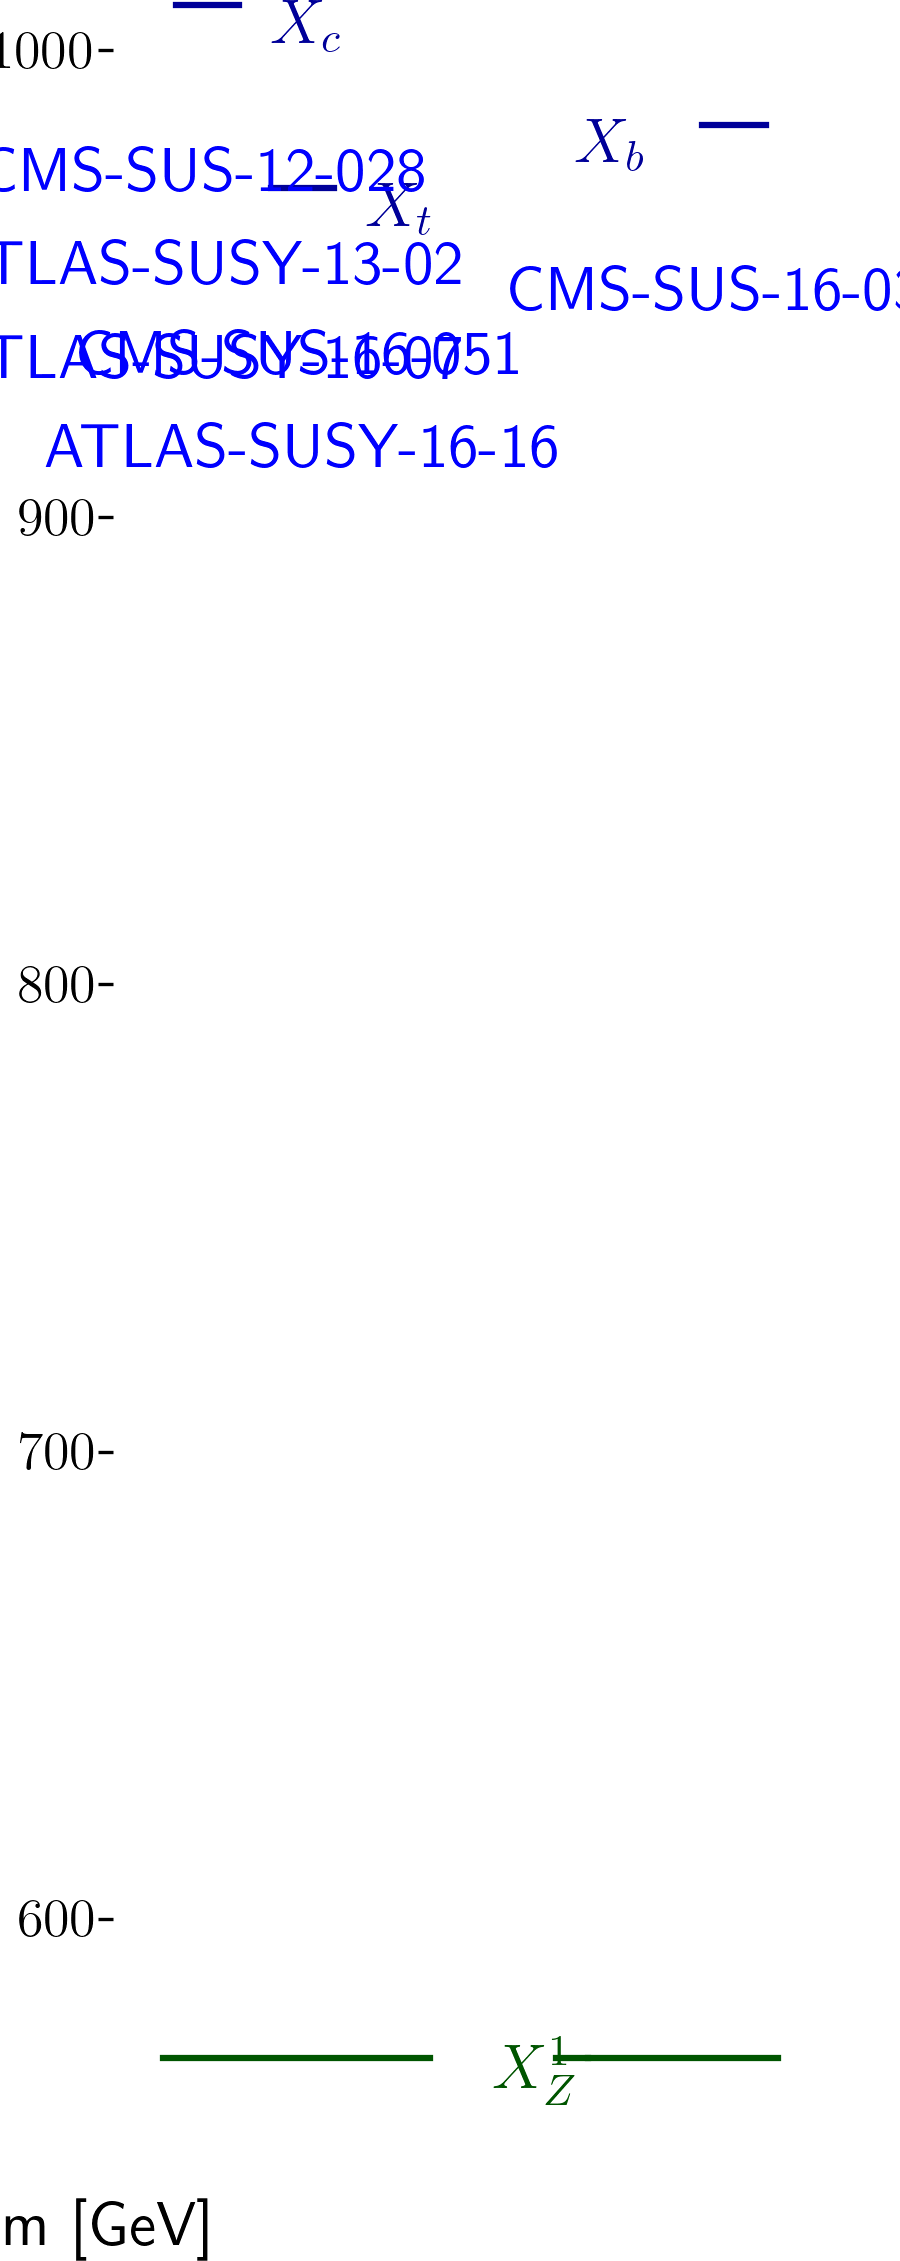
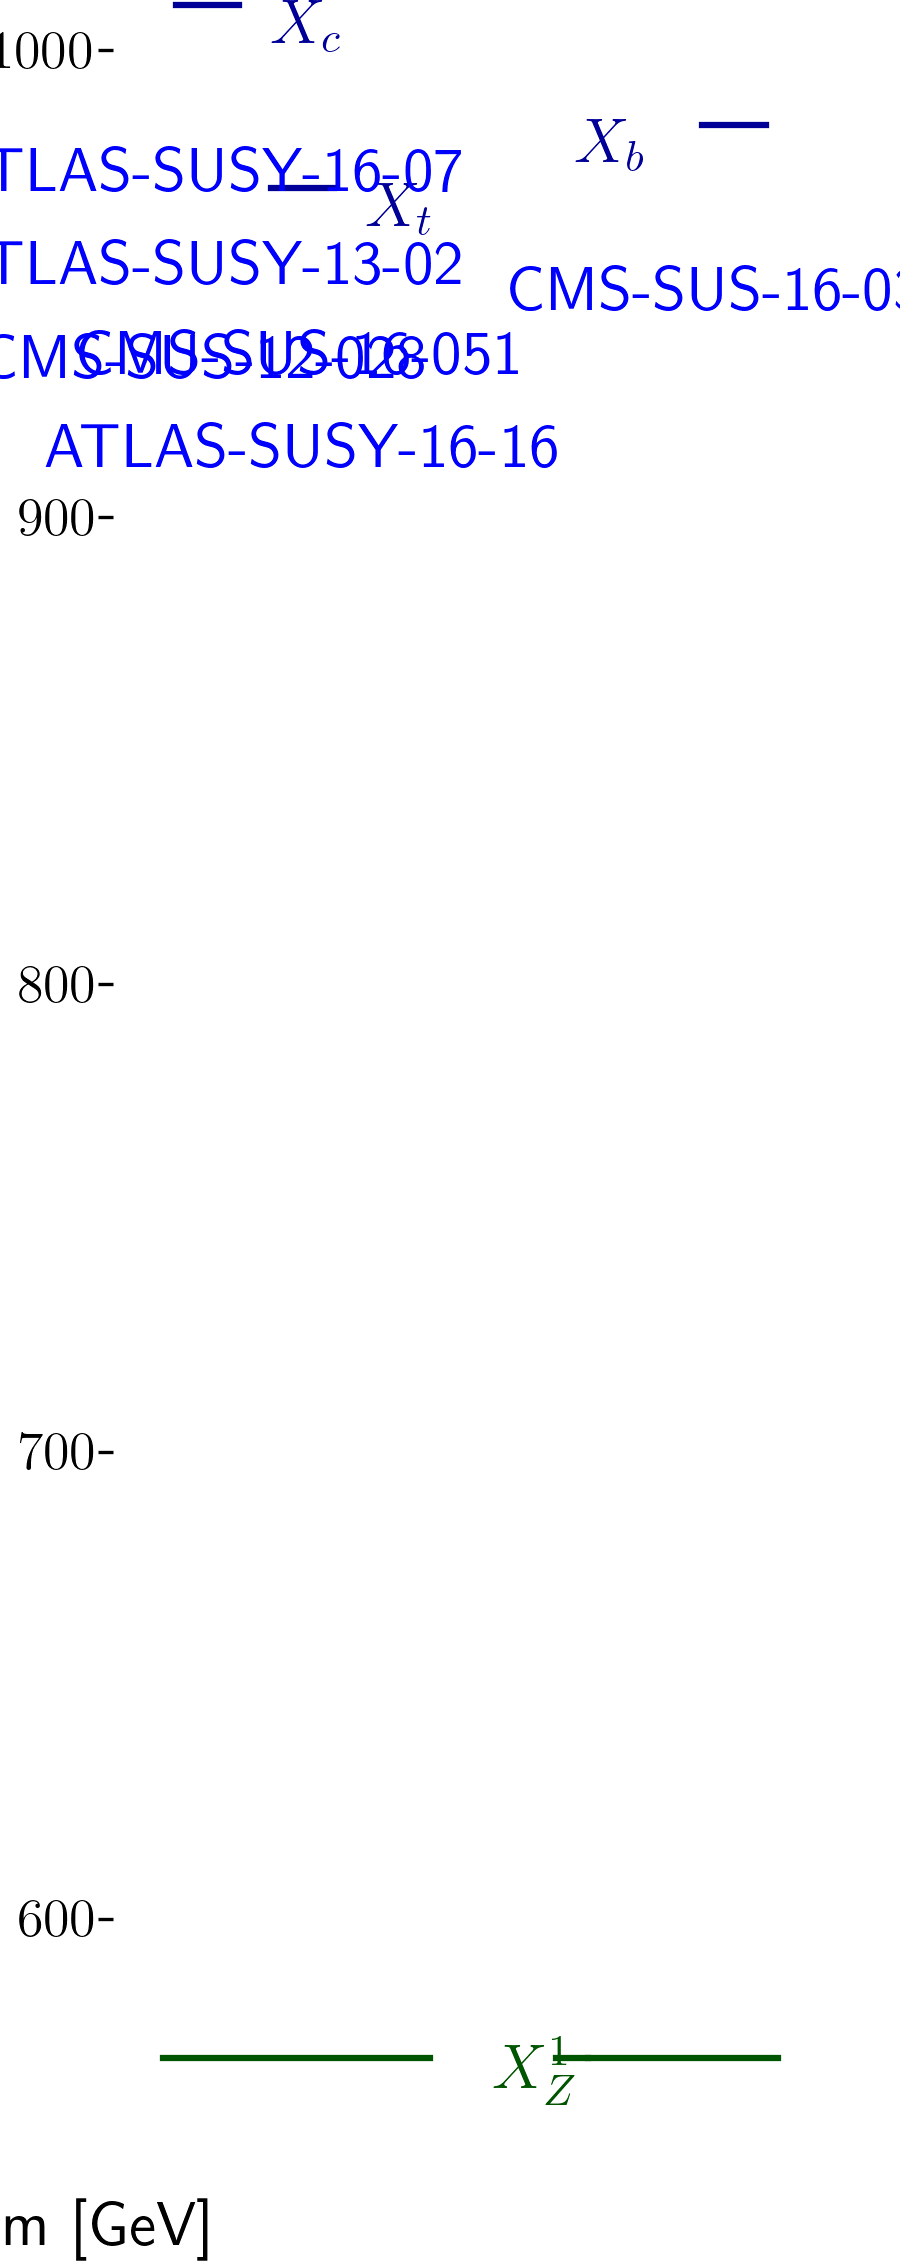
automated update by plotHiscore.py

Changed region(s): [[0.0, 0.0619, 0.4978, 0.0929], [0.0, 0.1238, 0.3422, 0.1858], [0.3733, 0.1238, 0.4978, 0.1858]]

diff --git a/protomodels/latest/index.html b/protomodels/latest/index.html
@@ -3,7 +3,7 @@
 <center>
 <table><td><h1>Current best protomodel: K=7.19</h1><td><img height=60px src=https://smodels.github.io/pics/banner.png></table>
 </center>
-<b><a href=./hiscore.slha>ProtoModel</a> <a href=./pmodel.py>(dict)</a> produced with <a href=https://smodels.github.io/docs/Validation124signal2>database v1.2.4signal2</a>, combination strategy <a href=./matrix_aggressive.png>aggressive</a> in walker 13 step 330.</b> K plots for: <a href=./M1000022.png?7085766>X<sub>Z</sub><sup>1</sup></a>, <a href=./M1000001.png?7085766>X<sub>d</sub></a>, <a href=./M1000006.png?7085766>X<sub>t</sub></a>. HPD plots for: <a href=./llhd1000001.png?7085766>X<sub>d</sub></a>, <a href=./llhd1000006.png?7085766>X<sub>t</sub></a>. SSM plots for: <a href=./ssm_-1000006_1000006.png?7085766>(x&#772;<sub>t</sub>,X<sub>t</sub>)</a><br>
+<b><a href=./hiscore.slha>ProtoModel</a> <a href=./pmodel.py>(dict)</a> produced with <a href=https://smodels.github.io/docs/Validation124signal2>database v1.2.4signal2</a>, combination strategy <a href=./matrix_aggressive.png>aggressive</a> in walker 13 step 330.</b> K plots for: <a href=./M1000022.png?7090284>X<sub>Z</sub><sup>1</sup></a>, <a href=./M1000001.png?7090284>X<sub>d</sub></a>, <a href=./M1000006.png?7090284>X<sub>t</sub></a>. HPD plots for: <a href=./llhd1000001.png?7090284>X<sub>d</sub></a>, <a href=./llhd1000006.png?7090284>X<sub>t</sub></a>. SSM plots for: <a href=./ssm_-1000006_1000006.png?7090284>(x&#772;<sub>t</sub>,X<sub>t</sub>)</a><br>
 <table width=80%>
 <tr><td>
 <br><b>34 predictions available. Highest r values are:</b><br><ul>
@@ -20,11 +20,11 @@
 <li> <a href=>CMS-SUS-16-033</a>: 3.79 (20%)
 <li> <a href=http://cms-results.web.cern.ch/cms-results/public-results/publications/SUS-16-051/index.html>CMS-SUS-16-051</a>: 3.16 (23%)
 <li> <a href=https://atlas.web.cern.ch/Atlas/GROUPS/PHYSICS/PAPERS/SUSY-2016-07/>ATLAS-SUSY-2016-07</a>: 1.58 (32%)
-<td><img width=600px src=./texdoc.png?1600085767>
-<br><font size=-1>Last updated: Mon Sep 14 14:16:07 2020</font>
+<td><img width=600px src=./texdoc.png?1600090284>
+<br><font size=-1>Last updated: Mon Sep 14 15:31:24 2020</font>
 </table><table style="width:80%">
-<td width=45%><img height=580px src=./ruler.png?1600085767><td width=55%><img height=380px src=./decays.png?1600085767>
-<font size=-3><iframe type="text/html" height="220px" width="100%s" frameborder="0" src="./rawnumbers.html?1600085767"></iframe></font>
+<td width=45%><img height=580px src=./ruler.png?1600090284><td width=55%><img height=380px src=./decays.png?1600090284>
+<font size=-3><iframe type="text/html" height="220px" width="100%s" frameborder="0" src="./rawnumbers.html?1600090284"></iframe></font>
 </table>
 </body>
 </html>

diff --git a/protomodels/latest/rawnumbers.html b/protomodels/latest/rawnumbers.html
@@ -5,6 +5,6 @@
 <tr><td><a href=https://atlas.web.cern.ch/Atlas/GROUPS/PHYSICS/PAPERS/SUSY-2016-07/>ATLAS-SUSY-2016-07</a></td><td>em</td> <td>2j_Meff_1200</td><td>T2</td><td>603</td><td>526 +/- 31</td><td style="text-align:right">2.0 &sigma;</td><td style="text-align:right">X<sub>c</sub></td><td style="text-align:right">46</td></tr>
 <tr><td><a href=https://atlas.web.cern.ch/Atlas/GROUPS/PHYSICS/PAPERS/SUSY-2016-16/>ATLAS-SUSY-2016-16</a></td><td>em</td> <td>tN_med</td><td>T2tt</td><td>51</td><td>36.3 +/- 6.6</td><td style="text-align:right">1.6 &sigma;</td><td style="text-align:right">X<sub>t</sub></td><td style="text-align:right">12</td></tr>
 <tr><td><a href=https://twiki.cern.ch/twiki/bin/view/CMSPublic/PhysicsResultsSUS12028>CMS-SUS-12-028</a></td><td>ul</td> <td>-</td><td>T2</td><td> 32.8 fb </td><td> 24.5 fb</td><td style="text-align:right">0.7 &sigma;</td><td style="text-align:right">X<sub>c</sub></td><td style="text-align:right">1.57 fb</td></tr>
-<tr><td><a href=http://cms-results.web.cern.ch/cms-results/public-results/publications/SUS-16-036/index.html>CMS-SUS-16-036</a></td><td>ul</td> <td>-</td><td>T2bb</td><td> 23.4 fb </td><td> 11.8 fb</td><td style="text-align:right">1.9 &sigma;</td><td style="text-align:right">X<sub>b</sub></td><td style="text-align:right">28.69 fb</td></tr>
+<tr><td><a href=http://cms-results.web.cern.ch/cms-results/public-results/publications/SUS-16-036/index.html>CMS-SUS-16-036</a></td><td>ul</td> <td>-</td><td>T2bb</td><td> 23.4 fb </td><td> 11.8 fb</td><td style="text-align:right">1.9 &sigma;</td><td style="text-align:right">X<sub>b</sub></td><td style="text-align:right">-</td></tr>
 <tr><td><a href=http://cms-results.web.cern.ch/cms-results/public-results/publications/SUS-16-051/index.html>CMS-SUS-16-051</a></td><td>ul</td> <td>-</td><td>T2tt</td><td> 31.5 fb </td><td> 17.7 fb</td><td style="text-align:right">1.5 &sigma;</td><td style="text-align:right">X<sub>t</sub></td><td style="text-align:right">28.69 fb</td></tr>
 </table>

diff --git a/protomodels/latest/pmodel.py b/protomodels/latest/pmodel.py
@@ -1,1 +1,1 @@
-{'masses': {1000022: 560.132, 1000004: 999.697, 1000005: 974.08, 1000006: 960.451}, 'ssmultipliers': {(1000022, 1000022): 59.704, (1000004, 1000004): 4.192, (-1000004, 1000004): 4.192, (-1000004, -1000004): 4.192, (1000004, 1000022): 4.192, (-1000004, 1000022): 4.192, (1000005, 1000005): 0.995, (-1000005, 1000005): 0.996, (-1000005, -1000005): 0.995, (1000005, 1000022): 0.995, (-1000005, 1000022): 0.995, (1000004, 1000005): 0.995, (-1000005, 1000004): 0.995, (-1000004, 1000005): 0.995, (-1000005, -1000004): 0.995, (1000006, 1000006): 0.997, (-1000006, 1000006): 0.997, (-1000006, -1000006): 0.997, (1000006, 1000022): 0.997, (-1000006, 1000022): 0.997, (1000004, 1000006): 0.997, (-1000006, 1000004): 0.997, (-1000004, 1000006): 0.997, (-1000006, -1000004): 0.997, (1000005, 1000006): 0.997, (-1000006, 1000005): 0.997, (-1000005, 1000006): 0.997, (-1000006, -1000005): 0.997}, 'decays': {1000022: {}, 1000004: {1000022: 1.0}, 1000005: {1000022: 1.0}, 1000006: {1000022: 1.0}}, 'timestamp': 'Mon Sep 14 14:13:25 2020', 'Z': 3.476, 'K': 7.185, 'step': 330, 'codever': '1.0', 'dbver': '1.2.4signal2'}
+{'masses': {1000022: 560.132, 1000004: 999.697, 1000005: 974.08, 1000006: 960.451}, 'ssmultipliers': {(1000022, 1000022): 59.704, (1000004, 1000004): 4.192, (-1000004, 1000004): 4.192, (-1000004, -1000004): 4.192, (1000004, 1000022): 4.192, (-1000004, 1000022): 4.192, (1000005, 1000005): 0.995, (-1000005, 1000005): 0.996, (-1000005, -1000005): 0.995, (1000005, 1000022): 0.995, (-1000005, 1000022): 0.995, (1000004, 1000005): 0.995, (-1000005, 1000004): 0.995, (-1000004, 1000005): 0.995, (-1000005, -1000004): 0.995, (1000006, 1000006): 0.997, (-1000006, 1000006): 0.997, (-1000006, -1000006): 0.997, (1000006, 1000022): 0.997, (-1000006, 1000022): 0.997, (1000004, 1000006): 0.997, (-1000006, 1000004): 0.997, (-1000004, 1000006): 0.997, (-1000006, -1000004): 0.997, (1000005, 1000006): 0.997, (-1000006, 1000005): 0.997, (-1000005, 1000006): 0.997, (-1000006, -1000005): 0.997}, 'decays': {1000022: {}, 1000004: {1000022: 1.0}, 1000005: {1000022: 1.0}, 1000006: {1000022: 1.0}}, 'timestamp': 'Mon Sep 14 15:28:47 2020', 'Z': 3.476, 'K': 7.185, 'step': 330, 'codever': '1.0', 'dbver': '1.2.4signal2'}
